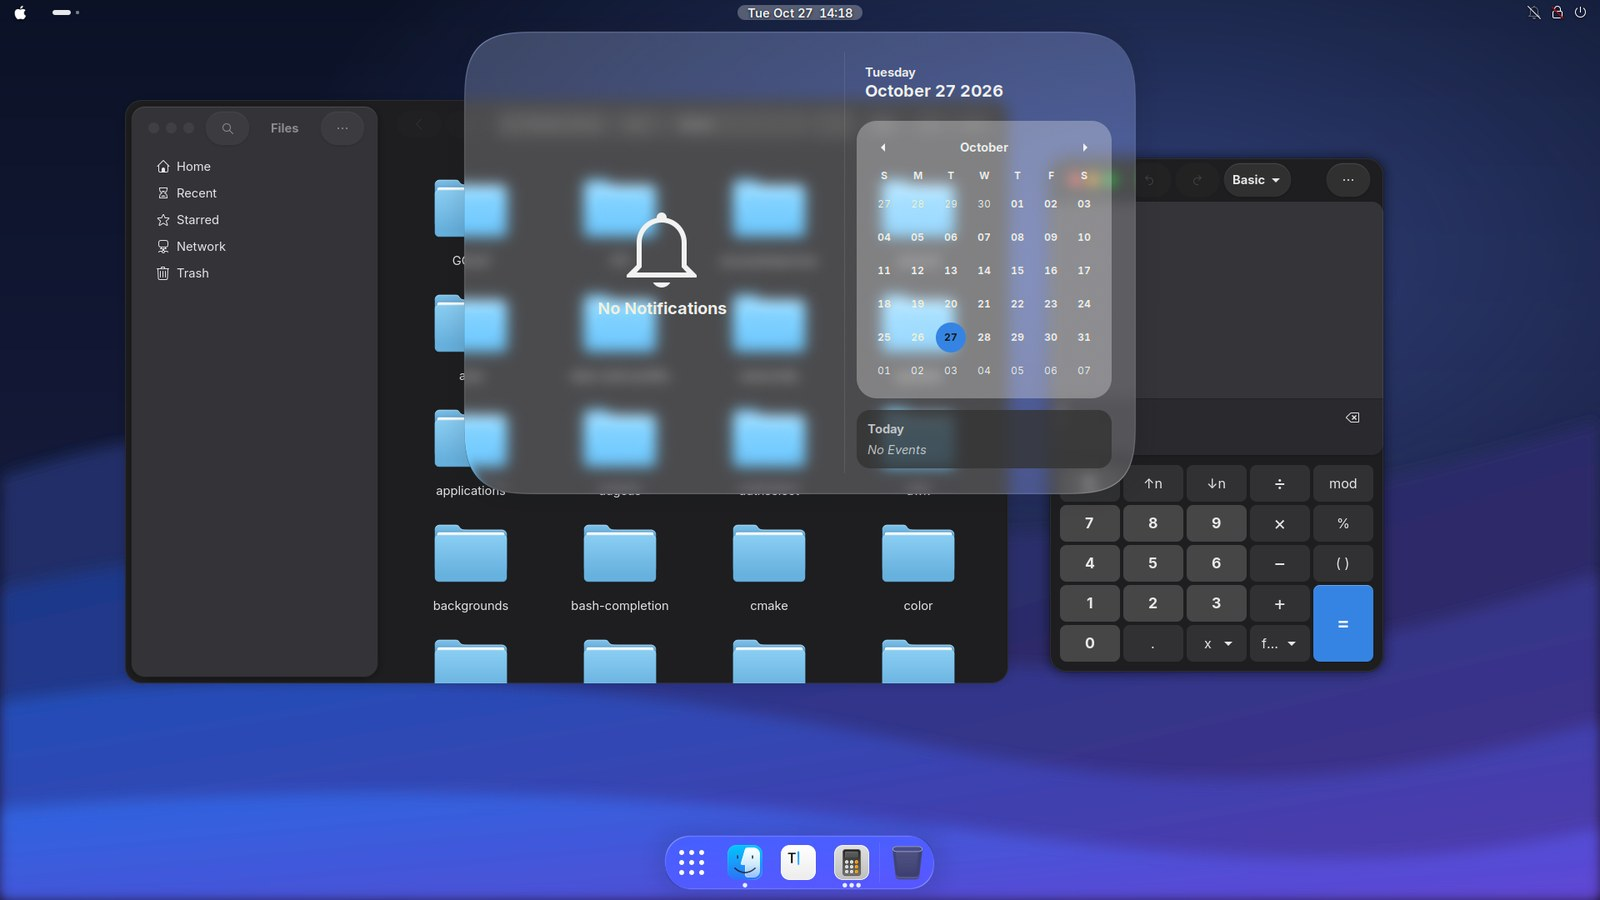
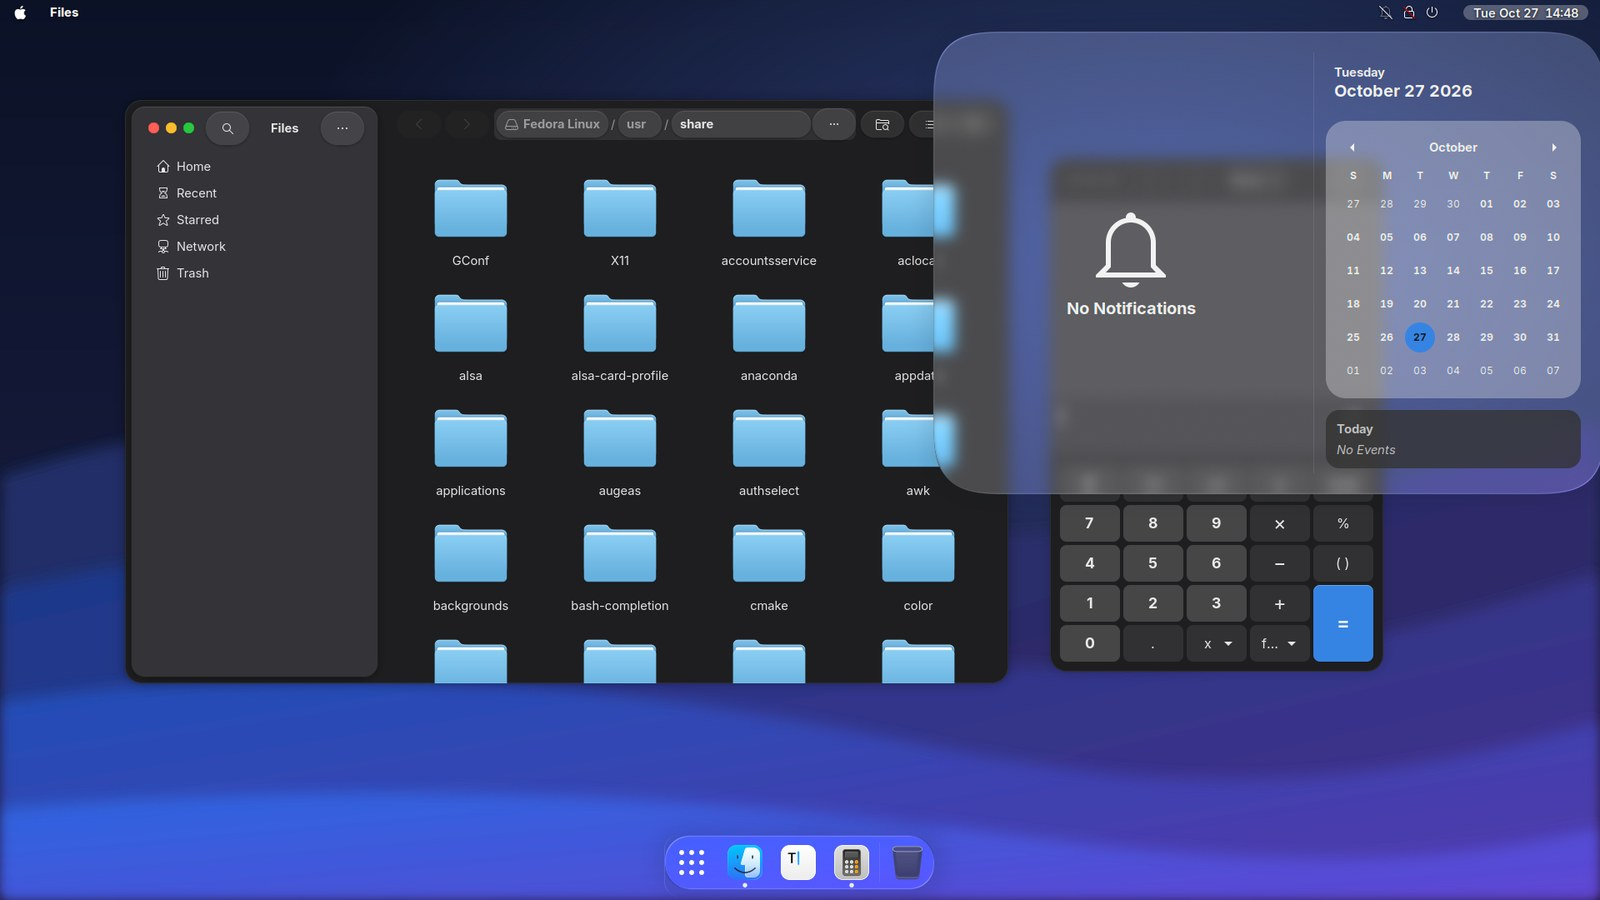
OhMyMac 1.2.0: Mac menu bar, Spotlight, Tahoe GTK 3
Verified end to end on GNOME Shell 51.0 (Fedora 45): install, every
screen in the README, uninstall and the login screen bundle.

- Bundle an OhMyMac Shell extension: focused app name in bold with
  New Window / Hide / Quit, clock on the right edge, notifications at
  the top right, no workspace pill. Installed from the repo via a new
  local:<dir> extension source.
- Spotlight on Super+Space via the Liquid Glass launcher; input sources
  move to Ctrl+Space as on macOS.
- Tahoe-style GTK 3: capsule toolbar buttons, tab groups, switch and
  slider knobs.
- Pin the MacTahoe icon theme to a commit, since its installer runs
  locally.
- Fix the Shell base fallback: GNOME 51 does ship gnome-shell-light.css;
  only bundles without it fall back to the dark stylesheet.
- New screenshots, CI checks for the extension, packaging updates.

Claude-Session: https://claude.ai/code/session_011BoBWEw2GanzqC9se7ZuWP

diff --git a/extensions/ohmymac@cmpdchtr.github.io/extension.js b/extensions/ohmymac@cmpdchtr.github.io/extension.js
@@ -1,0 +1,146 @@
+// SPDX-License-Identifier: GPL-3.0-or-later
+//
+// OhMyMac — macOS menu bar layout for GNOME Shell 47–51.
+//
+//   [logo] [App Name ▾] ··········· [status icons] [Tue 27 Oct 14:05]
+//
+// The focused application gets a bold title with a small menu, the clock
+// moves to the right end, notification banners slide in at the top right,
+// and the workspace pill is hidden. Every change is
+// reverted in disable().
+
+import Clutter from 'gi://Clutter';
+import GObject from 'gi://GObject';
+import Shell from 'gi://Shell';
+import St from 'gi://St';
+
+import * as Main from 'resource:///org/gnome/shell/ui/main.js';
+import * as PanelMenu from 'resource:///org/gnome/shell/ui/panelMenu.js';
+import * as PopupMenu from 'resource:///org/gnome/shell/ui/popupMenu.js';
+import {Extension, gettext as _} from 'resource:///org/gnome/shell/extensions/extension.js';
+
+const AppMenuButton = GObject.registerClass(
+class OhMyMacAppMenuButton extends PanelMenu.Button {
+    _init() {
+        super._init(0.0, 'OhMyMac App Menu');
+        this.add_style_class_name('ohmymac-app-menu');
+
+        this._label = new St.Label({
+            style_class: 'ohmymac-app-name',
+            y_align: Clutter.ActorAlign.CENTER,
+        });
+        this.add_child(this._label);
+
+        this._newWindowItem = this.menu.addAction(_('New Window'), () => this._app?.open_new_window(-1));
+        this.menu.addMenuItem(new PopupMenu.PopupSeparatorMenuItem());
+        this._hideItem = this.menu.addAction(_('Hide'), () => this._hideApp());
+        this.menu.addMenuItem(new PopupMenu.PopupSeparatorMenuItem());
+        this._quitItem = this.menu.addAction(_('Quit'), () => this._app?.request_quit());
+
+        this._tracker = Shell.WindowTracker.get_default();
+        this._tracker.connectObject('notify::focus-app', () => this._sync(), this);
+        Main.overview.connectObject(
+            'showing', () => this._sync(),
+            'hidden', () => this._sync(),
+            this);
+        this._sync();
+    }
+
+    _hideApp() {
+        for (const window of this._app?.get_windows() ?? [])
+            window.minimize();
+    }
+
+    _sync() {
+        this._app = Main.overview.visible ? null : this._tracker.focus_app;
+        if (!this._app) {
+            this.hide();
+            return;
+        }
+        const name = this._app.get_name();
+        this._label.text = name;
+        this._hideItem.label.text = _('Hide %s').format(name);
+        this._quitItem.label.text = _('Quit %s').format(name);
+        this._newWindowItem.visible = this._app.can_open_new_window();
+        this.show();
+    }
+
+    destroy() {
+        this._tracker.disconnectObject(this);
+        Main.overview.disconnectObject(this);
+        super.destroy();
+    }
+});
+
+export default class OhMyMacExtension extends Extension {
+    enable() {
+        this._settings = this.getSettings();
+        this._settings.connectObject('changed', () => this._reapply(), this);
+        this._apply();
+    }
+
+    disable() {
+        this._settings?.disconnectObject(this);
+        this._settings = null;
+        this._revert();
+    }
+
+    _reapply() {
+        this._revert();
+        this._apply();
+    }
+
+    _apply() {
+        if (this._settings.get_boolean('app-menu')) {
+            this._appMenu = new AppMenuButton();
+            Main.panel.addToStatusArea('ohmymac-app-menu', this._appMenu,
+                Main.panel._leftBox.get_n_children(), 'left');
+        }
+
+        if (this._settings.get_boolean('clock-right'))
+            this._moveClock(Main.panel._rightBox, -1);
+
+        if (this._settings.get_boolean('notifications-right')) {
+            this._bannerAlignment = Main.messageTray.bannerAlignment;
+            Main.messageTray.bannerAlignment = Clutter.ActorAlign.END;
+        }
+
+        const activities = Main.panel.statusArea.activities;
+        if (this._settings.get_boolean('hide-activities') && activities) {
+            activities.container.hide();
+            this._activitiesHidden = true;
+        }
+    }
+
+    _revert() {
+        this._appMenu?.destroy();
+        this._appMenu = null;
+
+        if (this._clockMoved) {
+            this._moveClock(Main.panel._centerBox, 0);
+            this._clockMoved = false;
+        }
+
+        if (this._bannerAlignment !== undefined) {
+            Main.messageTray.bannerAlignment = this._bannerAlignment;
+            this._bannerAlignment = undefined;
+        }
+
+        if (this._activitiesHidden) {
+            Main.panel.statusArea.activities?.container.show();
+            this._activitiesHidden = false;
+        }
+    }
+
+    _moveClock(box, index) {
+        const container = Main.panel.statusArea.dateMenu?.container;
+        if (!container)
+            return;
+        container.get_parent()?.remove_child(container);
+        if (index < 0)
+            box.add_child(container);
+        else
+            box.insert_child_at_index(container, index);
+        this._clockMoved = box === Main.panel._rightBox;
+    }
+}

diff --git a/src/sass/gtk3/_widgets.scss b/src/sass/gtk3/_widgets.scss
@@ -57,6 +57,8 @@ flowboxchild:selected {
   color: $accent-fg;
 }
 
+// GTK 3 cannot clip window content, so only the top corners are rounded;
+// rounding the bottom would leave square content inside a round shadow.
 decoration {
   border-radius: $radius-window $radius-window 0 0;
   box-shadow: $window-shadow;
@@ -69,17 +71,39 @@ decoration {
 // --- Header bars -----------------------------------------------------------
 headerbar,
 .titlebar:not(headerbar) {
-  min-height: 40px;
-  padding: 0 8px;
-  background: $headerbar-bg;
+  min-height: 46px;
+  padding: 0 10px;
+  background: $window-bg;
   color: $fg;
-  border-color: $border;
+  border-color: transparent;
   box-shadow: inset 0 -1px $border;
 
-  &:backdrop { background: $headerbar-bg; color: $fg-dim; }
+  &:backdrop { background: $window-bg; color: $fg-dim; }
 
-  .title { font-weight: $font-weight-title; }
+  .title { font-weight: 700; }
   .subtitle { color: $fg-dim; }
+
+  // Toolbar buttons as Tahoe glass capsules.
+  button:not(.titlebutton):not(.suggested-action):not(.destructive-action) {
+    min-height: 28px;
+    min-width: 28px;
+    padding: 0 9px;
+    border-radius: $radius-pill;
+    border-color: transparent;
+    background-image: none;
+    background-color: $capsule-bg;
+    box-shadow: inset 0 1px $capsule-highlight, 0 0 0 1px $capsule-edge, 0 1px 3px $capsule-shadow;
+
+    &:hover { background-color: $capsule-bg-hover; }
+    &:active, &:checked { background-color: $capsule-bg-active; }
+  }
+
+  .linked:not(.vertical) > button:not(.titlebutton) {
+    border-radius: 0;
+    &:first-child { border-radius: $radius-pill 0 0 $radius-pill; }
+    &:last-child { border-radius: 0 $radius-pill $radius-pill 0; }
+    &:only-child { border-radius: $radius-pill; }
+  }
 }
 
 window.csd > .titlebar,
@@ -177,8 +201,9 @@ spinbutton:not(.vertical) {
 
 // --- Switch, check, radio, scale -------------------------------------------
 switch {
-  min-width: 36px;
-  min-height: 20px;
+  min-width: 40px;
+  min-height: 22px;
+  padding: 1px;
   border-radius: $radius-pill;
   border: none;
   background-image: none;
@@ -189,13 +214,13 @@ switch {
   &:checked { background-color: $accent; }
 
   slider {
-    min-width: 20px;
+    min-width: 24px;
     min-height: 20px;
     border: none;
     border-radius: $radius-pill;
     background-image: none;
-    background-color: $knob;
-    box-shadow: 0 1px 2px rgba(0, 0, 0, 0.25);
+    background-color: #ffffff;
+    box-shadow: 0 1px 3px rgba(0, 0, 0, 0.28);
   }
 }
 
@@ -236,14 +261,20 @@ scale {
   }
 
   slider {
-    min-width: 20px;
-    min-height: 20px;
-    margin: -9px;
+    min-width: 24px;
+    min-height: 16px;
+    margin: -7px -10px;
     border: none;
     border-radius: $radius-pill;
     background-image: none;
-    background-color: $knob;
-    box-shadow: 0 1px 3px rgba(0, 0, 0, 0.28);
+    background-color: #ffffff;
+    box-shadow: 0 1px 4px rgba(0, 0, 0, 0.30), 0 0 0 1px rgba(0, 0, 0, 0.06);
+  }
+
+  &.vertical slider {
+    min-width: 16px;
+    min-height: 24px;
+    margin: -10px -7px;
   }
 }
 

diff --git a/extensions/ohmymac@cmpdchtr.github.io/stylesheet.css b/extensions/ohmymac@cmpdchtr.github.io/stylesheet.css
@@ -1,0 +1,10 @@
+/* SPDX-License-Identifier: GPL-3.0-or-later */
+
+/* The focused app's name, bold like the macOS menu bar. */
+.ohmymac-app-name {
+  font-weight: 800;
+}
+
+.ohmymac-app-menu {
+  -natural-hpadding: 10px;
+}

diff --git a/README.md b/README.md
@@ -13,7 +13,7 @@
 </p>
 
 <p align="center">
-  <a href="https://github.com/cmpdchtr/OhMyMac/actions/workflows/ci.yml"><img alt="CI" src="https://img.shields.io/github/actions/workflow/status/cmpdchtr/OhMyMac/ci.yml?branch=main&style=for-the-badge&label=CI&logo=githubactions&logoColor=white"></a>
+  <a href="https://github.com/cmpdchtr/OhMyMac/actions/workflows/ci.yml"><img alt="CI" src="https://github.com/cmpdchtr/OhMyMac/actions/workflows/ci.yml/badge.svg?branch=main" height="28"></a>
   <img alt="GNOME 47–51" src="https://img.shields.io/badge/GNOME-47%E2%80%9351-4A86CF?style=for-the-badge&logo=gnome&logoColor=white">
   <img alt="Wayland" src="https://img.shields.io/badge/Wayland-ready-FFBC00?style=for-the-badge&logo=wayland&logoColor=black">
   <a href="LICENSE"><img alt="GPL-3.0" src="https://img.shields.io/badge/license-GPL--3.0-A42E2B?style=for-the-badge&logo=gnu&logoColor=white"></a>
@@ -64,6 +64,12 @@ Then **log out and back in**. That's it.
 <td align="center"><sub><b>Notification Center</b> — real refraction, not a flat blur</sub></td>
 <td align="center"><sub><b>Launchpad</b> — app grid over the blurred wallpaper</sub></td>
 </tr>
+<tr>
+<td colspan="2"><img alt="Spotlight on Super+Space" src="docs/screenshots/spotlight.jpg"></td>
+</tr>
+<tr>
+<td colspan="2" align="center"><sub><b>Spotlight</b> on <kbd>Super</kbd>+<kbd>Space</kbd> — apps, settings, files and maths, on glass</sub></td>
+</tr>
 </table>
 
 <br>
@@ -99,14 +105,23 @@ Shell theme and icons together with the system switch — no manual theme hoppin
 </td>
 <td valign="top">
 
+### 🍎 A real Mac menu bar
+The bundled **OhMyMac** extension puts the focused app's name in bold next to
+the logo (with New Window, Hide and Quit), moves the clock to the right edge,
+slides notifications in at the top right and drops the workspace pill.
+<kbd>Super</kbd>+<kbd>Space</kbd> opens Spotlight; layouts move to <kbd>Ctrl</kbd>+<kbd>Space</kbd>.
+
+</td>
+</tr>
+<tr>
+<td valign="top">
+
 ### 🧩 Extensions that actually load
 Dock, glass, tray icons, logo menu and the genie effect are fetched for **your
 exact GNOME version** (extensions.gnome.org, or a pinned upstream commit).
 Anything incompatible is skipped instead of breaking your session.
 
 </td>
-</tr>
-<tr>
 <td valign="top">
 
 ### 🛡 Survives GNOME updates
@@ -114,11 +129,21 @@ OhMyMac never ships a frozen copy of GNOME's CSS. It layers on top of the stock
 stylesheet that is *on your system*, so upgrades keep working.
 
 </td>
+</tr>
+<tr>
 <td valign="top">
 
 ### ↩ Fully reversible
 Every file goes into a manifest and every setting is backed up before it
 changes. `./uninstall.sh` restores your previous desktop — fonts, dock, all of it.
+
+</td>
+<td valign="top">
+
+### 🐧 Any distribution
+apt, dnf, pacman, zypper, xbps, apk, emerge and eopkg — plus Silverblue-style
+immutable systems and NixOS. Tested on real GNOME 51 (Fedora 45) before every
+release.
 
 </td>
 </tr>
@@ -280,7 +305,7 @@ flowchart LR
 
 - **GTK 3** imports the Adwaita stylesheet compiled into libgtk-3 and restyles only what makes it look like a Mac.
 - **GTK 4 / libadwaita** is themed through libadwaita's public CSS variables, with `prefers-color-scheme` for dark mode.
-- **GNOME Shell** gets an `@import` of the stock stylesheet *found on your machine* at install time — `gnome-shell-dark.css` on GNOME 49–51 (which ship no light stylesheet; OhMyMac's light variant layers over it), `gnome-shell-{light,dark}.css` on 47–48, `gnome-shell.css` before.
+- **GNOME Shell** gets an `@import` of the stock stylesheet *found on your machine* at install time — `gnome-shell-{light,dark}.css` on GNOME 47–51, `gnome-shell.css` before.
 - **Glass** comes from Liquid Glass shaders in the compositor; OhMyMac's Shell theme keeps those surfaces transparent and supplies geometry and typography.
 
 <details>

diff --git a/CHANGELOG.md b/CHANGELOG.md
@@ -4,6 +4,26 @@ All notable changes to this project are documented here. The format follows
 [Keep a Changelog](https://keepachangelog.com/en/1.1.0/) and the project uses
 [Semantic Versioning](https://semver.org/).
 
+## [1.2.0] — 2026-10-27
+
+### Added
+- Bundled **OhMyMac** Shell extension (GNOME 47–51) for a real Mac menu bar:
+  the focused app's name in bold with New Window / Hide / Quit, the clock on
+  the right edge, notification banners at the top right, no workspace pill.
+- Spotlight on Super+Space (Liquid Glass launcher); input sources move to
+  Ctrl+Space like macOS.
+- GTK 3 brought to the Tahoe style: capsule toolbar buttons and tab groups,
+  capsule switch and slider knobs.
+- Extension lists accept `local:<dir>` for extensions shipped in this repo.
+
+### Changed
+- The MacTahoe icon theme is fetched at a pinned commit (its installer runs
+  locally), no longer from a moving branch.
+
+### Verified on GNOME 51.0
+- Install, uninstall (settings restored, nothing left behind) and the login
+  screen bundle (restored byte-for-byte) on Fedora 45.
+
 ## [1.1.0] — 2026-10-27
 
 Tahoe redesign, verified on a real GNOME Shell 51.0 / GTK 4.24 / libadwaita 1.10
@@ -26,8 +46,8 @@ Tahoe redesign, verified on a real GNOME Shell 51.0 / GTK 4.24 / libadwaita 1.10
 - Traffic lights are drawn on the button icon, so libadwaita 1.10 can no
   longer stretch them into pills.
 - Menu bar is fully transparent with a soft text shadow.
-- On GNOME 49+ the Shell theme always layers over `gnome-shell-dark.css`,
-  because those releases ship no light stock stylesheet.
+- If the stock Shell bundle has no light stylesheet, the light variant now
+  falls back to `gnome-shell-dark.css` instead of importing a missing file.
 
 ### Fixed
 - The installer aborted on Fedora: `/etc/os-release` defines `VARIANT`, which
